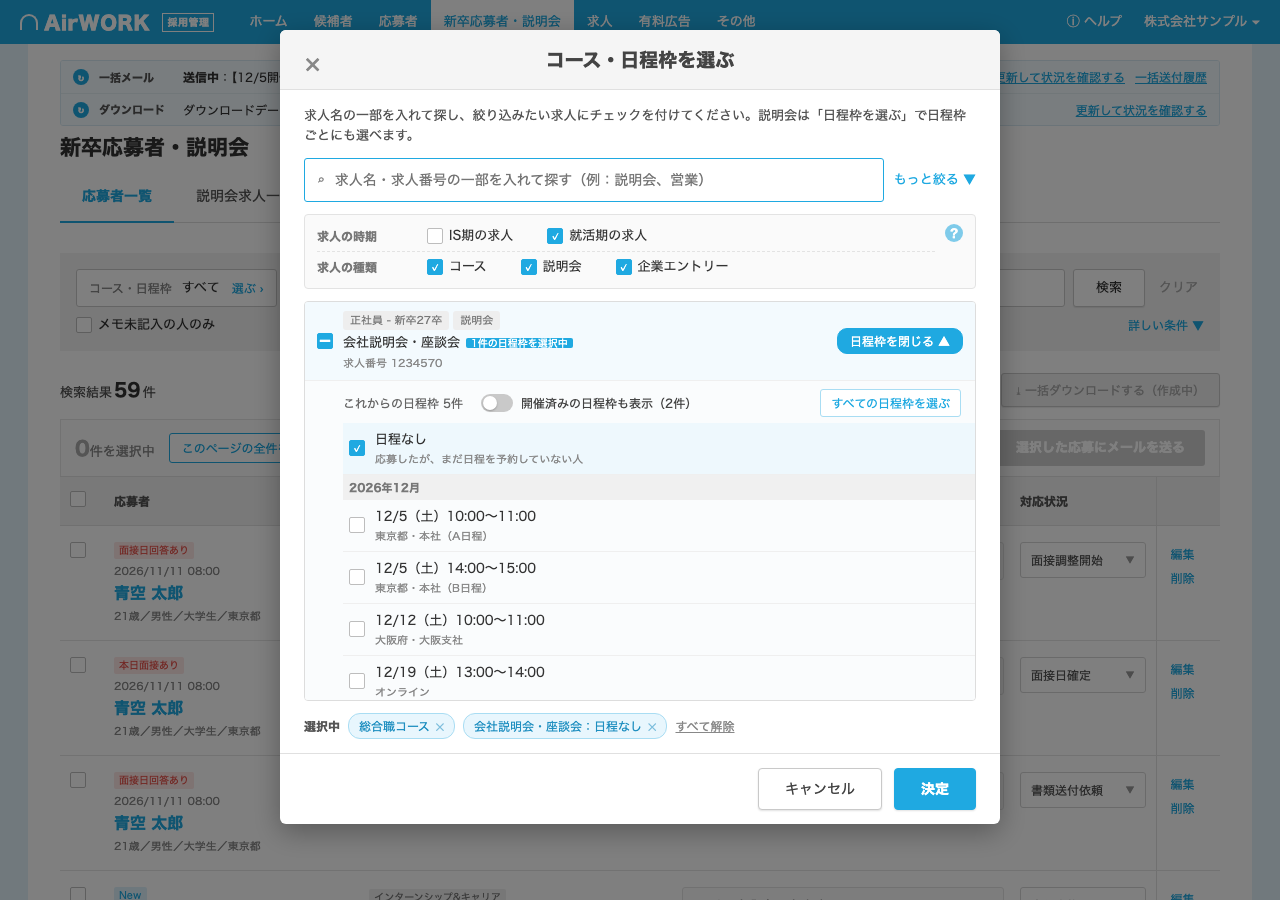
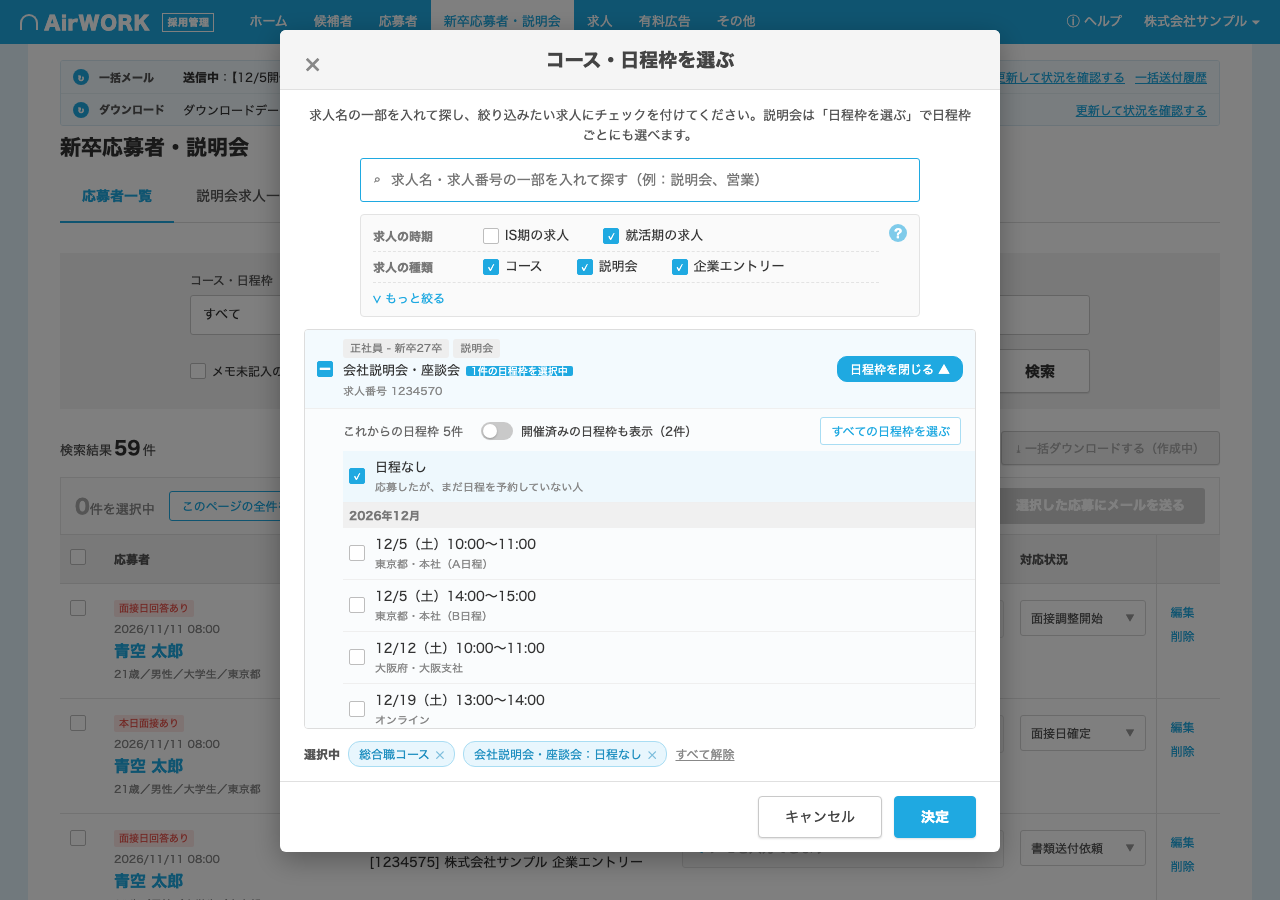
コース・日程枠モーダルの上部を中央寄せにし、「もっと絞る」を絞り込みの枠の一番下に移す

diff --git a/index.html b/index.html
@@ -68,12 +68,13 @@
   <div class="md" id="md">
     <div class="mh"><span class="x" id="mdClose">×</span><h2>コース・日程枠を選ぶ</h2></div>
     <div class="mb">
-      <div class="desc" id="mdDesc"></div>
-      <div class="tools">
-        <label class="srch big"><span class="mg">⌕</span><input id="mdQ" placeholder="求人名・求人番号の一部を入れて探す（例：説明会、営業）"></label>
-        <span class="morelk" id="moreLk">もっと絞る ▼</span>
+      <div class="mtop">
+        <div class="desc" id="mdDesc"></div>
+        <div class="tools">
+          <label class="srch big"><span class="mg">⌕</span><input id="mdQ" placeholder="求人名・求人番号の一部を入れて探す（例：説明会、営業）"></label>
+        </div>
+        <div class="fbox"><div id="frows"></div><span class="morelk" id="moreLk">∨ もっと絞る</span><span class="qtip down click ftip" id="kTip">?<span class="qbox">応募が1件以上ある求人だけを出しています。<br>応募がまだない求人は出ません。</span></span></div>
       </div>
-      <div class="fbox"><div id="frows"></div><span class="qtip down click ftip" id="kTip">?<span class="qbox">応募が1件以上ある求人だけを出しています。<br>応募がまだない求人は出ません。</span></span></div>
       <div class="panes" id="panes">
         <div class="left">
           <div class="mtabs" id="mtabs"></div>

diff --git a/app.js b/app.js
@@ -506,7 +506,7 @@
       : '求人名の一部を入れて探し、絞り込みたい求人にチェックを付けてください。説明会は「日程枠を選ぶ」で日程枠ごとにも選べます。';
     const d = defaultFs();
     const moreSet = fs.year.size !== d.year.size || fs.post.size !== 1 || !fs.post.has('on');
-    $('moreLk').textContent = M.more ? 'もっと絞る ▲' : `もっと絞る${moreSet ? '（指定中）' : ''} ▼`;
+    $('moreLk').textContent = M.more ? '∧ もっと絞るを閉じる' : `∨ もっと絞る${moreSet ? '（指定中）' : ''}`;
     $('frows').innerHTML = FROWS.filter((r) => !r[3] || M.more).map(([f, label, opts]) => `<div class="frow"><span class="fl">${label}</span>${opts().map(([v, t]) => {
       const dis = f === 'type' && v === 'seminar' && isIS;
       return `<label class="cb ${dis ? 'dis' : ''}" data-f="${f}" data-v="${v}"><span class="box ${fs[f].has(v) && !dis ? 'on' : ''}"></span>${t}</label>`;

diff --git a/style.css b/style.css
@@ -356,6 +356,9 @@ body.dirty table, body.dirty .pager, body.dirty .pinfo, body.dirty .empty { opac
 .frow .cb { display: inline-flex; align-items: center; gap: 6px; cursor: pointer; }
 .frow .cb.dis { opacity: .35; cursor: default; }
 .fbox .ftip { position: absolute; right: 12px; top: 9px; margin: 0; }
+.mtop { width: 560px; margin: 0 auto; }
+.mtop .desc { text-align: center; margin-left: -56px; margin-right: -56px; }
+.fbox .morelk { display: inline-block; font-size: 12px; padding: 6px 0 3px; border-top: 1px dashed #E3E3E3; width: 100%; }
 .fbox .ftip .qbox { left: auto; right: -10px; }
 .fbox .ftip .qbox::after { left: auto; right: 14px; }
 .mtabs { display: none !important; }
